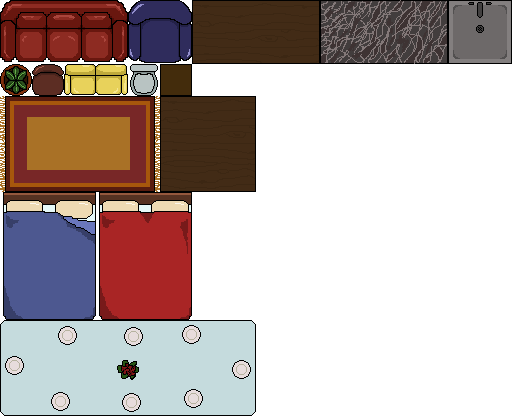
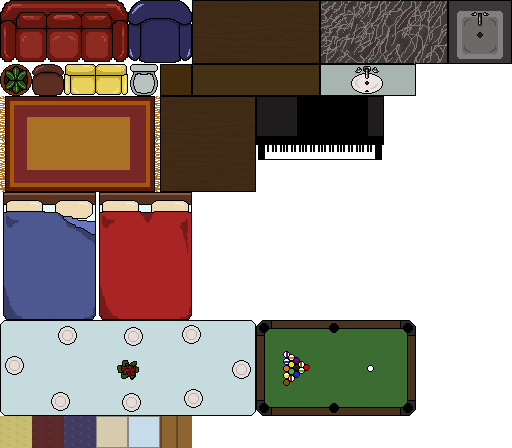
Added floor tiles

diff --git a/assets/js/view/SpriteMap.js b/assets/js/view/SpriteMap.js
@@ -20,5 +20,11 @@ define([
     'redBed': {gridX: 3, gridY: 6, gridW: 3, gridH: 4},
     'diningTable': {gridX: 0, gridY: 10, gridW: 8, gridH: 3},
     'poolTable': {gridX: 8, gridY: 10, gridW: 5, gridH: 3},
+    'yellowCarpet': {gridX: 0, gridY: 13, gridW: 1, gridH: 1},
+    'redCarpet': {gridX: 1, gridY: 13, gridW: 1, gridH: 1},
+    'blueCarpet': {gridX: 2, gridY: 13, gridW: 1, gridH: 1},
+    'creamTile': {gridX: 3, gridY: 13, gridW: 1, gridH: 1},
+    'blueTile': {gridX: 4, gridY: 13, gridW: 1, gridH: 1},
+    'woodFloor': {gridX: 5, gridY: 13, gridW: 1, gridH: 1},
   }
 });
